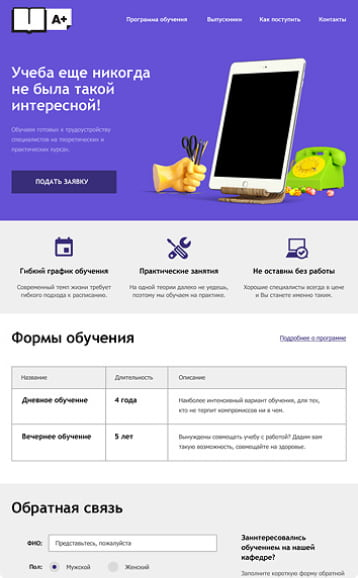
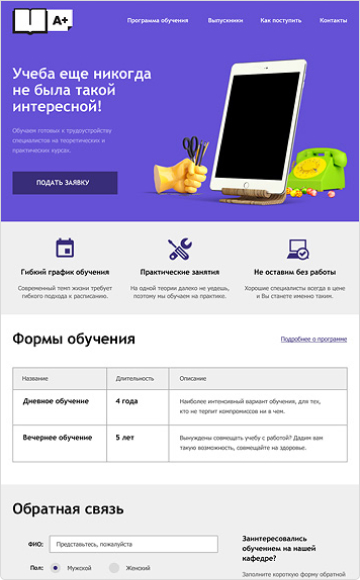
Fixed by remarks.

diff --git a/css/style.min.css b/css/style.min.css
@@ -1,1 +1,1 @@
-:root{--basic-white:white;--basic-black:black;--basic-red:#fb565a;--basic-green:#00ca74;--green-hover:#00bc6c;--green-active:#00aa62;--green-bar:#00ca74;--basic-yellow:#efc849;--yellow-hover:#eab534;--yellow-active:#e5a722;--red-hover:#e74246;--red-active:#d7373b;--white2:#e1e1e1;--basic-grey:#eee;--grey-hover:#dfdfdf;--grey-active:#d5d5d5;--grey-input-normal:#d7dcde;--grey-input-hover:#b4b9bb;--grey-slider-button_active:#c1c1c1;--grey-border:#dbdbdb;--grey-range:#f1f1f1;--grey-dark:#d7dcde;--toggle-color:#ababab;--shadow-color:#cfcfcf}body{margin:0;padding:0;min-width:1460px;font-family:Roboto,Arial,sans-serif;font-size:16px;line-height:24px;min-height:100%;display:grid;grid-template-rows:-webkit-min-content 1fr -webkit-min-content;grid-template-rows:min-content 1fr min-content;align-content:start}img{height:auto}a{text-decoration:none;color:var(--basic-black);text-transform:uppercase}.visually-hidden{position:absolute;width:1px;height:1px;margin:-1px;border:0;padding:0;clip:rect(0 0 0 0);overflow:hidden}.container{margin:0 auto;padding:0 10px;width:1179px}.page{height:100%}.container_big{width:1440px;padding:0}.main-header nav{font-size:16px;line-height:30px;font-weight:500;display:flex}.about-us-block ul,.form-filter ul,.lets-be-friends-block ul,.main-slider ul,.navigation-links,.our-clients-section ul,.product-options ul,.sort-section ul{list-style:none;padding:0;margin:0}.form-filter fieldset{border:none;margin:0;padding:0}.product-list li{position:relative;padding-left:35px;padding-bottom:24px}.product-list li::before{content:"";position:absolute;width:25px;height:2px;background-color:var(--basic-red);left:0;top:11px}.product-list li:last-child{padding-bottom:0}.navigation-links a{display:block;padding:9px 23px}.cart-link{padding:9px 0 9px 52px;position:relative;margin-top:17px;margin-left:193px;width:126px}.cart-link::before{position:absolute;content:"";background-image:url(../img/cart-icon.svg);width:15px;height:15px;top:17px;left:12px}.lets-be-friends-block ul{display:flex;align-self:flex-start;width:260px;justify-content:space-between;gap:9px;margin-right:140px}.navigation-links{display:flex;flex-wrap:wrap;align-items:center;padding-top:8px;width:500px;margin-left:180px}.main-slider .container{position:relative}.main-slider-buttons{display:flex;position:absolute;left:546px;bottom:10px}.slider-button{width:18px;height:18px;border-radius:50%;border:none;background-color:var(--basic-white);position:relative}.slider-button_active::after{position:absolute;content:"";width:10px;height:10px;border-radius:50%;border:3px solid var(--grey-slider-button_active);left:4px;top:4px}.main-slider-buttons li{margin-right:17px}.main-slider-buttons li:last-child{margin-right:0}.main-header a:hover{color:var(--basic-red)}.logo:active,.main-header a:active{opacity:.3}.navigation-links .active-link{border-bottom:2px solid var(--basic-red);padding:12px 0 13px;margin:0 23px}.main-header,.main-slider,.map-block{background-color:var(--basic-grey)}.map-block{position:relative;height:416px}.main-header{padding-top:49px}.main-slider{padding-top:67px;padding-bottom:80px}.for-h1-in-catalog{background-color:var(--basic-grey);padding:30px 0 71px;margin-bottom:55px}.h1{text-align:center;font-weight:500;font-size:55px;line-height:55px;margin-left:-19px}.catalog{display:grid;grid-template-columns:260px repeat(2,360px);grid-template-rows:repeat(2,auto);gap:48px 140px;margin-bottom:60px}.filter-section{grid-column:1/2;grid-row:1/-1}.sort-section{grid-column:2/-1;display:grid;grid-template-columns:repeat(2,360px);gap:40px}.sort-section__div-for-lists{display:flex;justify-content:space-between;align-items:center}.sort-section ul{display:flex;flex-wrap:wrap;justify-content:space-between}.sort-section ul:first-child{width:272px}.sort-section ul:last-child{width:41px}.catalog-items{grid-column:2/-1;display:grid;grid-template-columns:repeat(2,360px);gap:22px 40px;margin-bottom:-2px}.product-image{border:1px solid rgba(0,0,0,.1);border-top:none;box-sizing:border-box;border-radius:0 0 5px 5px;width:100%;height:580px}.product-item{position:relative}.product-hover-section{width:360px;position:absolute;bottom:6px;padding:26px 65px 45px;background-color:var(--basic-grey);text-align:center;border-radius:0 0 5px 5px;display:none}.product-hover-section a{width:200px}.product-item:focus .product-image,.product-item:focus-within .product-image,.product-item:hover .product-image,.product-item_active .product-image{box-shadow:0 20px 40px rgba(0,0,0,.4)}.product-item:focus-within .product-hover-section,.product-item:hover .product-hover-section{display:block}.upper-row{opacity:.12;margin-bottom:-6px}.product-item:hover .upper-row,.product-item_active .upper-row{opacity:1}.pages-section{grid-column:2/-1;display:flex;align-items:center}.main-slider h3{font-weight:500;font-size:55px;line-height:55px;margin:0 0 25px}.main-slider p{margin:0 0 40px}.main-header-slide-1,.main-header-slide-2,.main-header-slide-3{width:510px;display:none}.main-header-slide-1{display:block}.main-header-slide-2 h3,.main-header-slide-3 h3{margin-bottom:38px}.main-header-slide-2 p,.main-header-slide-3 p{margin-bottom:27px}.main-slider-list{position:relative}.main-slider-list a{width:240px}.main-header-slide-1::after,.main-header-slide-2::after,.main-header-slide-3::after{content:"";width:760px;height:431px;position:absolute;left:397px;top:-78px;background-image:url(../img/nerds-index-slide1.png);background-repeat:no-repeat}.main-header-slide-2::after{background-image:url(../img/nerds-index-slide2.png);top:-78px}.main-header-slide-3::after{background-image:url(../img/nerds-index-slide3.png)}.button{display:inline-block;text-align:center;vertical-align:center;font-weight:500;font-size:16px;line-height:18px;text-transform:uppercase;color:var(--basic-white);background-color:var(--basic-red);border:none;border-radius:3px;padding:16px 44px}.button:hover{background-color:var(--red-hover)}.button:active{background-color:var(--red-active);box-shadow:inset 0 3px 0 rgba(0,1,1,.1)}.button-submit{width:260px}.button-close{width:21px;height:21px;background-color:transparent;opacity:.4;padding:0;position:absolute;top:78px;right:90px;border:none;z-index:3}.map-popup .button-close{top:30px;right:20px}.button-close:hover{opacity:1;background-color:transparent}.button-close:active{opacity:.2;background-color:transparent}.button-write-to-us{padding:17px 44px 15px;width:220px}.button-app-order{background-color:var(--basic-green)}.button-app-order:hover{background-color:var(--green-hover)}.button-app-order:active{background-color:var(--green-active)}.button-presentation-order{background-color:var(--basic-yellow)}.button-presentation-order:hover{background-color:var(--yellow-hover)}.button-presentation-order:active{background-color:var(--yellow-active)}.social-button{background-color:var(--white2);width:78px;height:78px;display:flex;align-items:center;justify-content:center;border-radius:50%;padding:0}.social-button:active img{opacity:.3}.button-filter{width:100%;margin-top:50px}.button-filter,.page-button{background-color:var(--basic-grey);color:var(--basic-black)}.page-button{margin-right:12px;padding:16px 17px 12px;min-width:50px;min-height:50px}.page-button-next{width:260px;padding:17px 77px 15px 71px}.page-button:last-child{margin-right:0}.button-filter:hover,.page-button:hover{background-color:var(--grey-hover)}.button-filter:active,.page-button:active{background-color:var(--grey-active)}.page-button-active{background-color:var(--basic-white);border:3px solid var(--grey-border)}.about-us-block,.our-clients-section,.product-options{border-bottom:2px solid var(--basic-grey)}.product-options{padding:80px 0}.product-options img{margin-bottom:18px}.product-options h3{font-weight:700;font-size:24px;line-height:30px;margin:0 0 16px;text-transform:uppercase}.product-options p{margin:0 0 32px}.product-options ul{display:grid;grid-template-columns:repeat(3,300px);gap:100px}.product-options article{padding-right:40px}.product-options a{width:160px;padding:17px 40px 15px 39px}.about-us-block{display:flex;justify-content:space-between;padding-top:39px;padding-bottom:72px}.about-us-block div:first-child{width:660px}.about-us-block div:last-child{width:362px}.logo-big{margin-bottom:33px;margin-left:3px}.about-us-block h2{font-weight:500;font-size:45px;line-height:45px;margin:34px 0}.about-us-block p{margin:0 0 44px}.about-us-block h3,.write-to-us-popup label{font-weight:700}.about-us-block h3{text-transform:uppercase;font-size:16px;line-height:18px;margin:0 0 25px}.right-column caption{margin-left:5px}.about-us-block th,.product-hover-section p{font-weight:400;font-size:16px;line-height:18px}.about-us-block th{text-align:left;vertical-align:bottom;padding-top:8px}.about-us-block td{font-weight:700;font-size:45px;line-height:64px;position:relative;padding-right:38px}.about-us-block span{position:absolute;font-size:26px;line-height:40px;top:5px}.form-filter legend,.header-sort,.our-contacts-block h3,.product-hover-section h3{font-weight:700;font-size:18px;line-height:30px;text-transform:uppercase}.product-hover-section h3,.product-hover-section p{margin:0}.product-hover-section h3{margin-bottom:12px}.product-hover-section p{margin-bottom:32px}.header-sort{margin:0}.our-contacts-block h3{margin:0 0 23px}.right-column h3{margin-bottom:31px}.our-contacts-block p{font-size:16px;line-height:18px;margin:0 0 37px}.lets-be-friends-block{display:flex;align-items:center;padding:70px 0 68px}.lets-be-friends-block h3{font-weight:700;font-size:36px;line-height:36px;margin:0 0 10px}.lets-be-friends-block p{font-size:16px;line-height:22px;margin:0}.modal{box-shadow:0 20px 40px rgba(0,0,0,.4);background-color:var(--basic-white);transform:translate(-50%,-50%);display:none;position:fixed;left:50%;right:0;top:50%;width:960px;min-height:590px}@-webkit-keyframes bounce{0%{transform:translate(-50%,-250%)}70%{transform:translate(-50%,-40%)}90%{transform:translate(-50%,-52%)}100%{transform:translate(-50%,-50%)}}@keyframes bounce{0%{transform:translate(-50%,-250%)}70%{transform:translate(-50%,-40%)}90%{transform:translate(-50%,-52%)}100%{transform:translate(-50%,-50%)}}@-webkit-keyframes shake{10%,90%{transform:translate(-48%,-50%)}20%,80%{transform:translate(-52%,-50%)}30%,50%,70%{transform:translate(-49%,-50%)}40%,60%{transform:translate(-51%,-50%)}}@keyframes shake{10%,90%{transform:translate(-48%,-50%)}20%,80%{transform:translate(-52%,-50%)}30%,50%,70%{transform:translate(-49%,-50%)}40%,60%{transform:translate(-51%,-50%)}}.modal-show{display:block;-webkit-animation-name:bounce;animation-name:bounce;-webkit-animation-duration:.4s;animation-duration:.4s}.modal-error{-webkit-animation-name:shake;animation-name:shake;-webkit-animation-duration:.4s;animation-duration:.4s}.write-to-us-popup{padding:63px 100px 84px}.map-popup__iframe{position:absolute;z-index:2}.map-popup p{position:absolute;z-index:1;margin:0}.write-to-us-popup form{display:grid;grid-template-columns:repeat(2,360px);-moz-column-gap:40px;column-gap:40px}.write-to-us-popup h2{font-weight:700;font-size:45px;line-height:53px;margin:0 0 3px}.write-to-us-popup label{margin:34px 0 8px}.write-to-us-popup textarea{margin-bottom:49px;min-height:118px;resize:none}.label-for-text-area,.write-to-us-popup textarea{grid-column:-1/1}.write-to-us-popup input,.write-to-us-popup label,.write-to-us-popup textarea{font-size:16px;line-height:18px}.write-to-us-popup input,.write-to-us-popup textarea{border:2px solid var(--grey-input-normal);padding:14px}.write-to-us-popup input:hover,.write-to-us-popup textarea:hover{border:2px solid var(--grey-input-hover)}.link-sort,.link-sort-img img{font-size:14px;line-height:18px;opacity:.3}.link-sort-img:hover img,.link-sort:hover{opacity:.6}.link-sort-img:active img,.link-sort-img_active img,.link-sort:active,.link-sort_active{opacity:1}.fieldset-price{margin-bottom:54px}.form-filter .fieldset-grid{margin-top:51px;margin-bottom:45px}.fieldset-features{margin-bottom:50px}.fieldset-price legend{margin-bottom:48px}.fieldset-price label{font-size:16px;line-height:22px;text-transform:uppercase}.fieldset-price input{font-size:16px;line-height:22px;text-transform:uppercase}.fieldset-features label,.fieldset-grid label{font-size:16px;line-height:22px}.range-filter{width:260px}.range-controls{position:relative;height:41px;background-color:var(--grey-range);padding:39px 20px;border-radius:5px;margin-bottom:15px}.range-controls .scale{height:2px;background-color:var(--grey-dark)}.range-controls .bar{width:70%;height:2px;background:var(--green-bar)}.range-controls .toggle{position:absolute;top:31px;left:0;width:4px;height:4px;padding:0;border:8px solid var(--basic-white);background-color:var(--toggle-color);box-sizing:content-box;border-radius:50%;box-shadow:0 2px 1px 0 var(--shadow-color);cursor:pointer}.range-controls .toggle-min{left:18px}.range-controls .toggle-max{left:160px}.price-controls{display:flex;justify-content:space-between}.price-controls input{width:80px;padding:10px;margin-left:10px;text-align:center;border:none;border-radius:5px;background:var(--grey-range)}input::-webkit-inner-spin-button,input::-webkit-outer-spin-button{-webkit-appearance:none;margin:0}.fieldset-features li,.fieldset-grid li{margin-top:15px}.check{padding-left:36px;margin-top:0}.check__input{-webkit-appearance:none;-moz-appearance:none;appearance:none;position:absolute}.check__box,.check__radio{margin-left:-36px;position:absolute;width:25px;height:25px;background-image:url(../img/custom-radio-off.svg);background-repeat:no-repeat;opacity:.4}.check__box{background-image:url(../img/custom-checkbox-off.svg);width:23px;height:23px}.check__input:checked+.check__radio{background-image:url(../img/custom-radio-on.svg)}.check__input:checked+.check__box{background-image:url(../img/custom-checkbox-on.svg)}.check__input:focus+.check__box,.check__input:focus+.check__radio,.check__input:hover+.check__box,.check__input:hover+.check__radio{opacity:1}.check__input:disabled+.check__box,.check__input:disabled+.check__radio{opacity:.1}.our-clients-section{margin-bottom:80px}.our-clients-section ul{display:grid;grid-template-columns:280px 300px 280px 300px;margin:48px 0 35px 0;gap:17px}.our-clients-section li{position:relative;display:flex;align-items:center}.our-clients-section li::after{content:"";position:absolute;width:2px;height:52px;background-color:var(--basic-grey);right:0}.our-clients-section li:last-child:after{display:none}.our-contacts-block{width:320px;background-color:var(--basic-white);position:absolute;left:140px;top:54px;padding:49px 50px 47px}F .discount-div{width:575px}.map-marker{position:absolute;right:387px;top:86px}.our-clients-section a{opacity:.2;width:247px;display:block;padding:0 33px}.our-clients-section a:hover{opacity:1}.our-clients-section a:active{opacity:.1}.product-item__link:hover{color:var(--basic-red)}.product-item__link:active{color:var(--basic-black);opacity:.3}*,::after,::before{box-sizing:border-box}
+:root{--basic-white:white;--basic-black:black;--basic-red:#fb565a;--basic-green:#00ca74;--green-hover:#00bc6c;--green-active:#00aa62;--green-bar:#00ca74;--basic-yellow:#efc849;--yellow-hover:#eab534;--yellow-active:#e5a722;--red-hover:#e74246;--red-active:#d7373b;--white2:#e1e1e1;--basic-grey:#eee;--grey-hover:#dfdfdf;--grey-active:#d5d5d5;--grey-input-normal:#d7dcde;--grey-input-hover:#b4b9bb;--grey-slider-button_active:#c1c1c1;--grey-border:#dbdbdb;--grey-range:#f1f1f1;--grey-dark:#d7dcde;--toggle-color:#ababab;--shadow-color:#cfcfcf}body{margin:0;padding:0;min-width:1460px;font-family:Roboto,Arial,sans-serif;font-size:16px;line-height:24px;min-height:100%;display:grid;grid-template-rows:-webkit-min-content 1fr -webkit-min-content;grid-template-rows:min-content 1fr min-content;align-content:start}img{height:auto}a{text-decoration:none;color:var(--basic-black);text-transform:uppercase}.visually-hidden{position:absolute;width:1px;height:1px;margin:-1px;border:0;padding:0;clip:rect(0 0 0 0);overflow:hidden}.container{margin:0 auto;padding:0 10px;width:1179px}.page{height:100%}.container_big{width:1440px;padding:0}.main-header nav{font-size:16px;line-height:30px;font-weight:500;display:flex}.about-us-block ul,.form-filter ul,.lets-be-friends-block ul,.main-slider ul,.navigation-links,.our-clients-section ul,.product-options ul,.sort-section ul{list-style:none;padding:0;margin:0}.form-filter fieldset{border:none;margin:0;padding:0}.product-list li{position:relative;padding-left:35px;padding-bottom:24px}.product-list li::before{content:"";position:absolute;width:25px;height:2px;background-color:var(--basic-red);left:0;top:11px}.product-list li:last-child{padding-bottom:0}.navigation-links a{display:block;padding:9px 23px}.cart-link{padding:9px 0 9px 52px;position:relative;margin-top:17px;margin-left:193px;width:126px}.cart-link::before{position:absolute;content:"";background-image:url(../img/cart-icon.svg);width:15px;height:15px;top:17px;left:12px}.lets-be-friends-block ul{display:flex;align-self:flex-start;width:260px;justify-content:space-between;gap:9px;margin-right:140px}.navigation-links{display:flex;flex-wrap:wrap;align-items:center;padding-top:8px;width:500px;margin-left:180px}.main-slider .container{position:relative}.main-slider-buttons{display:flex;position:absolute;left:546px;bottom:10px}.slider-button{width:18px;height:18px;border-radius:50%;border:none;background-color:var(--basic-white);position:relative}.slider-button_active::after{position:absolute;content:"";width:10px;height:10px;border-radius:50%;border:3px solid var(--grey-slider-button_active);left:4px;top:4px}.main-slider-buttons li{margin-right:17px}.main-slider-buttons li:last-child{margin-right:0}.main-header a:hover{color:var(--basic-red)}.logo:active,.main-header a:active{opacity:.3}.navigation-links .active-link{border-bottom:2px solid var(--basic-red);padding:12px 0 13px;margin:0 23px}.main-header,.main-slider,.map-block{background-color:var(--basic-grey)}.map-block{position:relative;height:416px}.main-header{padding-top:49px}.main-slider{padding-top:67px;padding-bottom:80px}.for-h1-in-catalog{background-color:var(--basic-grey);padding:30px 0 71px;margin-bottom:55px}.h1{text-align:center;font-weight:500;font-size:55px;line-height:55px;margin-left:-19px}.catalog{display:grid;grid-template-columns:260px repeat(2,360px);grid-template-rows:repeat(2,auto);gap:48px 140px;margin-bottom:60px}.filter-section{grid-column:1/2;grid-row:1/-1}.sort-section{grid-column:2/-1;display:grid;grid-template-columns:repeat(2,360px);gap:40px}.sort-section__div-for-lists{display:flex;justify-content:space-between;align-items:center}.sort-section ul{display:flex;flex-wrap:wrap;justify-content:space-between}.sort-section ul:first-child{width:272px}.sort-section ul:last-child{width:41px}.catalog-items{grid-column:2/-1;display:grid;grid-template-columns:repeat(2,360px);gap:23px 40px;margin-bottom:-2px}.product-image{border-radius:0 0 5px 5px}.product-item{position:relative;padding-top:40px}.product-item::before{content:"";position:absolute;background-image:url(../img/product-hover.svg);width:360px;height:40px;top:0;opacity:.12}.product-hover-section{width:360px;position:absolute;bottom:6px;padding:26px 65px 45px;background-color:var(--basic-grey);text-align:center;border-radius:0 0 5px 5px;display:none}.product-hover-section a{width:200px}.product-item:focus .product-image,.product-item:focus-within .product-image,.product-item:hover .product-image,.product-item_active .product-image{box-shadow:0 20px 40px rgba(0,0,0,.4)}.product-item:focus-within .product-hover-section,.product-item:hover .product-hover-section{display:block}.product-item:hover::before{opacity:1}.pages-section{grid-column:2/-1;display:flex;align-items:center}.main-slider h3{font-weight:500;font-size:55px;line-height:55px;margin:0 0 25px}.main-slider p{margin:0 0 40px}.main-header-slide-1,.main-header-slide-2,.main-header-slide-3{width:510px;display:none}.main-header-slide-1{display:block}.main-header-slide-2 h3,.main-header-slide-3 h3{margin-bottom:38px}.main-header-slide-2 p,.main-header-slide-3 p{margin-bottom:27px}.main-slider-list{position:relative}.main-slider-list a{width:240px}.main-header-slide-1::after,.main-header-slide-2::after,.main-header-slide-3::after{content:"";width:760px;height:431px;position:absolute;left:397px;top:-78px;background-image:url(../img/nerds-index-slide1.png);background-repeat:no-repeat}.main-header-slide-2::after{background-image:url(../img/nerds-index-slide2.png);top:-78px}.main-header-slide-3::after{background-image:url(../img/nerds-index-slide3.png)}.button{display:inline-block;text-align:center;vertical-align:center;font-weight:500;font-size:16px;line-height:18px;text-transform:uppercase;color:var(--basic-white);background-color:var(--basic-red);border:none;border-radius:3px;padding:16px 44px}.button:hover{background-color:var(--red-hover)}.button:active{background-color:var(--red-active);box-shadow:inset 0 3px 0 rgba(0,1,1,.1)}.button-submit{width:260px}.button-close{width:21px;height:21px;background-color:transparent;opacity:.4;padding:0;position:absolute;top:78px;right:90px;border:none;z-index:3}.button-close:hover{opacity:1;background-color:transparent}.button-close:active{opacity:.2;background-color:transparent}.button-write-to-us{padding:17px 44px 15px;width:220px;margin-top:19px}.button-app-order{background-color:var(--basic-green)}.button-app-order:hover{background-color:var(--green-hover)}.button-app-order:active{background-color:var(--green-active)}.button-presentation-order{background-color:var(--basic-yellow)}.button-presentation-order:hover{background-color:var(--yellow-hover)}.button-presentation-order:active{background-color:var(--yellow-active)}.social-button{background-color:var(--white2);width:78px;height:78px;display:flex;align-items:center;justify-content:center;border-radius:50%;padding:0}.social-button:active img{opacity:.3}.button-filter{width:100%;margin-top:50px}.button-filter,.page-button{background-color:var(--basic-grey);color:var(--basic-black)}.page-button{margin-right:12px;padding:16px 17px 12px;min-width:50px;min-height:50px}.page-button-next{width:260px;padding:17px 77px 15px 71px}.page-button:last-child{margin-right:0}.button-filter:hover,.page-button:hover{background-color:var(--grey-hover)}.button-filter:active,.page-button:active{background-color:var(--grey-active)}.page-button-active{background-color:var(--basic-white);border:3px solid var(--grey-border)}.about-us-block,.our-clients-section,.product-options{border-bottom:2px solid var(--basic-grey)}.product-options{padding:80px 0}.product-options img{margin-bottom:18px}.product-options h3{font-weight:700;font-size:24px;line-height:30px;margin:0 0 16px;text-transform:uppercase}.product-options p{margin:0 0 32px}.product-options ul{display:grid;grid-template-columns:repeat(3,300px);gap:100px}.context-block{padding-right:40px}.product-options a{width:160px;padding:17px 40px 15px 39px}.about-us-block{display:flex;justify-content:space-between;padding-top:39px;padding-bottom:72px}.about-us-block div:first-child{width:660px}.about-us-block div:last-child{width:362px}.logo-big{margin-bottom:33px;margin-left:3px}.about-us-block h2{font-weight:500;font-size:45px;line-height:45px;margin:34px 0}.about-us-block p{margin:0 0 44px}.about-us-block h3,.write-to-us-popup label{font-weight:700}.about-us-block h3{text-transform:uppercase;font-size:16px;line-height:18px;margin:0 0 25px}.right-column caption{margin-left:5px}.about-us-block th,.product-hover-section p{font-weight:400;font-size:16px;line-height:18px}.about-us-block th{text-align:left;vertical-align:bottom;padding-top:8px}.about-us-block td{font-weight:700;font-size:45px;line-height:64px;position:relative;padding-right:38px}.about-us-block span{position:absolute;font-size:26px;line-height:40px;top:5px}.form-filter legend,.header-sort,.our-contacts-block h3,.product-hover-section h3{font-weight:700;font-size:18px;line-height:30px;text-transform:uppercase}.product-hover-section h3,.product-hover-section p{margin:0}.product-hover-section h3{margin-bottom:12px}.product-hover-section p{margin-bottom:32px}.header-sort{margin:0}.our-contacts-block h3{margin:0 0 23px}.right-column h3{margin-bottom:31px}.our-contacts-block p{font-size:16px;line-height:18px;margin:0 0 18px}.lets-be-friends-block{display:flex;align-items:center;padding:70px 0 68px}.lets-be-friends-block h3{font-weight:700;font-size:36px;line-height:36px;margin:0 0 10px}.lets-be-friends-block p{font-size:16px;line-height:22px;margin:0}.modal{box-shadow:0 20px 40px rgba(0,0,0,.4);background-color:var(--basic-white);transform:translate(-50%,-50%);display:none;position:fixed;left:50%;right:0;top:50%;width:960px;min-height:590px}@-webkit-keyframes bounce{0%{transform:translate(-50%,-250%)}70%{transform:translate(-50%,-40%)}90%{transform:translate(-50%,-52%)}100%{transform:translate(-50%,-50%)}}@keyframes bounce{0%{transform:translate(-50%,-250%)}70%{transform:translate(-50%,-40%)}90%{transform:translate(-50%,-52%)}100%{transform:translate(-50%,-50%)}}@-webkit-keyframes shake{10%,90%{transform:translate(-48%,-50%)}20%,80%{transform:translate(-52%,-50%)}30%,50%,70%{transform:translate(-49%,-50%)}40%,60%{transform:translate(-51%,-50%)}}@keyframes shake{10%,90%{transform:translate(-48%,-50%)}20%,80%{transform:translate(-52%,-50%)}30%,50%,70%{transform:translate(-49%,-50%)}40%,60%{transform:translate(-51%,-50%)}}.modal-show{display:block;-webkit-animation-name:bounce;animation-name:bounce;-webkit-animation-duration:.4s;animation-duration:.4s}.modal-error{-webkit-animation-name:shake;animation-name:shake;-webkit-animation-duration:.4s;animation-duration:.4s}.write-to-us-popup{padding:63px 100px 84px}.write-to-us-popup form{display:grid;grid-template-columns:repeat(2,360px);-moz-column-gap:40px;column-gap:40px}.write-to-us-popup h2{font-weight:700;font-size:45px;line-height:53px;margin:0 0 3px}.write-to-us-popup label{margin:34px 0 8px}.write-to-us-popup textarea{margin-bottom:49px;min-height:118px;resize:none}.label-for-text-area,.write-to-us-popup textarea{grid-column:-1/1}.write-to-us-popup input,.write-to-us-popup label,.write-to-us-popup textarea{font-size:16px;line-height:18px}.write-to-us-popup input,.write-to-us-popup textarea{border:2px solid var(--grey-input-normal);padding:14px}.write-to-us-popup input:hover,.write-to-us-popup textarea:hover{border:2px solid var(--grey-input-hover)}.link-sort,.link-sort-img img{font-size:14px;line-height:18px;opacity:.3}.link-sort-img:hover img,.link-sort:hover{opacity:.6}.link-sort-img:active img,.link-sort-img_active img,.link-sort:active,.link-sort_active{opacity:1}.fieldset-price{margin-bottom:54px}.form-filter .fieldset-grid{margin-top:51px;margin-bottom:45px}.fieldset-features{margin-bottom:50px}.fieldset-price legend{margin-bottom:48px}.fieldset-price label{font-size:16px;line-height:22px;text-transform:uppercase}.fieldset-price input{font-size:16px;line-height:22px;text-transform:uppercase}.fieldset-features label,.fieldset-grid label{font-size:16px;line-height:22px}.range-filter{width:260px}.range-controls{position:relative;height:41px;background-color:var(--grey-range);padding:39px 20px;border-radius:5px;margin-bottom:15px}.range-controls .scale{height:2px;background-color:var(--grey-dark)}.range-controls .bar{width:70%;height:2px;background:var(--green-bar)}.range-controls .toggle{position:absolute;top:31px;left:0;width:4px;height:4px;padding:0;border:8px solid var(--basic-white);background-color:var(--toggle-color);box-sizing:content-box;border-radius:50%;box-shadow:0 2px 1px 0 var(--shadow-color);cursor:pointer}.range-controls .toggle-min{left:18px}.range-controls .toggle-max{left:160px}.price-controls{display:flex;justify-content:space-between}.price-controls input{width:80px;padding:10px;margin-left:10px;text-align:center;border:none;border-radius:5px;background:var(--grey-range)}input::-webkit-inner-spin-button,input::-webkit-outer-spin-button{-webkit-appearance:none;margin:0}.fieldset-features li,.fieldset-grid li{margin-top:15px}.check{padding-left:36px;margin-top:0}.check__input{-webkit-appearance:none;-moz-appearance:none;appearance:none;position:absolute}.check__box,.check__radio{margin-left:-36px;position:absolute;width:25px;height:25px;background-image:url(../img/custom-radio-off.svg);background-repeat:no-repeat;opacity:.4}.check__box{background-image:url(../img/custom-checkbox-off.svg);width:23px;height:23px}.check__input:checked+.check__radio{background-image:url(../img/custom-radio-on.svg)}.check__input:checked+.check__box{background-image:url(../img/custom-checkbox-on.svg)}.check__input:focus+.check__box,.check__input:focus+.check__radio,.check__input:hover+.check__box,.check__input:hover+.check__radio{opacity:1}.check__input:disabled+.check__box,.check__input:disabled+.check__radio{opacity:.1}.our-clients-section{margin-bottom:80px}.our-clients-section ul{display:grid;grid-template-columns:280px 300px 280px 300px;margin:48px 0 35px 0;gap:17px}.our-clients-section li{position:relative;display:flex;align-items:center}.our-clients-section li::after{content:"";position:absolute;width:2px;height:52px;background-color:var(--basic-grey);right:0}.our-clients-section li:last-child:after{display:none}.our-contacts-block{width:320px;background-color:var(--basic-white);position:absolute;left:140px;top:54px;padding:49px 50px 47px}F .discount-div{width:575px}.map-marker{position:absolute;right:387px;top:86px}.our-clients-section a{opacity:.2;width:247px;display:block;padding:0 33px}.our-clients-section a:hover{opacity:1}.our-clients-section a:active{opacity:.1}.product-item__link:hover{color:var(--basic-red)}.product-item__link:active{color:var(--basic-black);opacity:.3}*,::after,::before{box-sizing:border-box}

diff --git a/catalog.html b/catalog.html
@@ -172,7 +172,6 @@
       <section class="catalog-items">
         <h2 class="visually-hidden">Каталог</h2>
         <article class="product-item" tabindex="0">
-          <img src="img/product-hover.svg" width="360" height="40" alt="Вверхняя полоса" class="upper-row">
           <img src="img/product-sedona.jpg" alt="Седона" width="360" height="580" class="product-image">
           <section class="product-hover-section">
             <h3>
@@ -188,8 +187,7 @@
           </section>
         </article>
         <article class="product-item" tabindex="0">
-          <img src="img/product-hover.svg" width="360" height="40" alt="Вверхняя полоса" class="upper-row">
-          <img src="img/product-pink.jpg" alt="Pink" width="358" height="578" class="product-image">
+          <img src="img/product-pink.jpg" alt="Pink" width="360" height="580" class="product-image">
           <section class="product-hover-section">
             <h3>
               <a href="#" aria-label="Ссылка на карточку товара" class="product-item__link">
@@ -204,8 +202,7 @@
           </section>
         </article>
         <article class="product-item" tabindex="0">
-          <img src="img/product-hover.svg" width="360" height="40" alt="Вверхняя полоса" class="upper-row">
-          <img src="img/product-borodinskii.jpg" alt="Borodinski" width="358" height="578" class="product-image">
+          <img src="img/product-borodinskii.jpg" alt="Borodinski" width="360" height="580" class="product-image">
           <section class="product-hover-section">
             <h3>
               <a href="#" aria-label="Ссылка на карточку товара" class="product-item__link">
@@ -222,8 +219,7 @@
           </section>
         </article>
         <article class="product-item" tabindex="0">
-          <img src="img/product-hover.svg" width="360" height="40" alt="Вверхняя полоса" class="upper-row">
-          <img src="img/product-mishka.jpg" alt="Mishka" width="358" height="578" class="product-image">
+          <img src="img/product-mishka.jpg" alt="Mishka" width="360" height="580" class="product-image">
           <section class="product-hover-section">
             <h3>
               <a href="#" aria-label="Ссылка на карточку товара" class="product-item__link">
@@ -238,8 +234,7 @@
           </section>
         </article>
         <article class="product-item" tabindex="0">
-          <img src="img/product-hover.svg" width="360" height="40" alt="Вверхняя полоса" class="upper-row">
-          <img src="img/product-education.jpg" alt="A plus" width="358" height="578" class="product-image">
+          <img src="img/product-education.jpg" alt="A plus" width="360" height="580" class="product-image">
           <section class="product-hover-section">
             <h3>
               <a href="#" aria-label="Ссылка на карточку товара" class="product-item__link">
@@ -254,8 +249,7 @@
           </section>
         </article>
         <article class="product-item" tabindex="0">
-          <img src="img/product-hover.svg" width="360" height="40" alt="Вверхняя полоса" class="upper-row">
-          <img src="img/product-beer.jpg" alt="Кваст" width="358" height="578" class="product-image">
+          <img src="img/product-beer.jpg" alt="Кваст" width="360" height="580" class="product-image">
           <section class="product-hover-section">
             <h3>
               <a href="#" aria-label="Ссылка на карточку товара" class="product-item__link">
@@ -283,14 +277,18 @@
   <div class="container container_big">
     <section class="map-block">
       <h2 class="visually-hidden">Карта</h2>
-      <a href="#" class="map-popup-link">
-        <img src="img/map.png" alt="Карта с адресом" width="1440" height="416">
-      </a>
+      <iframe class="map-popup__iframe" aria-label="Интерактивная карта"
+              src="https://www.google.com/maps/embed?pb=!1m18!1m12!1m3!1d1998.5944077412285!2d30.320765870178526!3d59.93887210972331!2m3!1f0!2f0!3f0!3m2!1i1024!2i768!4f13.1!3m3!1m2!1s0x4696310fca5ba729%3A0xea9c53d4493c879f!2sBolshaya%20Konyushennaya%20St%2C%2019%2C%20Sankt-Peterburg%2C%20Russia%2C%20191186!5e0!3m2!1sen!2sby!4v1594029918026!5m2!1sen!2sby"
+              width="1440" height="416" style="border:0;" allowfullscreen="" aria-hidden="false"
+              tabindex="0">
+      </iframe>
       <article class="our-contacts-block">
-        <h3>NЁRDS DESIGN STUDIO</h3>
+        <h3>Nёrds design studio</h3>
         <p>
           191186, Санкт-Петербург,<br>
-          ул. Б. Конюшенная, д. 19/8<br><br>
+          ул. Б. Конюшенная, д. 19/8<br>
+        </p>
+        <p>
           тел. <a href="tel:+78122757575" aria-label="Телефонный контакт">+7 (812) 275-75-75</a>
         </p>
         <a href="#" class="button button-write-to-us">Напишите нам</a>
@@ -336,20 +334,6 @@
     <textarea id="message-text-area" name="message" placeholder="В свободной форме"></textarea>
     <button type="submit" class="button button-submit">Отправить</button>
   </form>
-  <button type="button" class="button button-close" aria-label="Кнопка закрыть">
-    <img src="img/button-close.svg" width="21" height="21" alt="Картинка закрыть">
-  </button>
-</section>
-<section class="modal map-popup">
-  <h2 class="visually-hidden">Здесь будет карта</h2>
-  <iframe class="map-popup__iframe"
-          src="https://www.google.com/maps/embed?pb=!1m18!1m12!1m3!1d1998.5944077412285!2d30.320765870178526!3d59.93887210972331!2m3!1f0!2f0!3f0!3m2!1i1024!2i768!4f13.1!3m3!1m2!1s0x4696310fca5ba729%3A0xea9c53d4493c879f!2sBolshaya%20Konyushennaya%20St%2C%2019%2C%20Sankt-Peterburg%2C%20Russia%2C%20191186!5e0!3m2!1sen!2sby!4v1594029918026!5m2!1sen!2sby"
-          width="960" height="590" style="border:0;" allowfullscreen="" aria-hidden="false"
-          tabindex="0">
-  </iframe>
-  <p>
-    <img src="img/map.png" alt="Карта с адресом" height="590" width="960">
-  </p>
   <button type="button" class="button button-close" aria-label="Кнопка закрыть">
     <img src="img/button-close.svg" width="21" height="21" alt="Картинка закрыть">
   </button>

diff --git a/index.html b/index.html
@@ -99,25 +99,31 @@
         <li>
           <article>
             <img src="img/illustration-1.png" alt="Сайты" width="300" height="146">
-            <h3>Веб-сайты</h3>
-            <p>Мир никогда не будет прежним после того как увидит ваш сайт!</p>
-            <a href="#" class="button">Заказать</a>
+            <div class="context-block">
+              <h3>Веб-сайты</h3>
+              <p>Мир никогда не будет прежним после того как увидит ваш сайт!</p>
+              <a href="#" class="button">Заказать</a>
+            </div>
           </article>
         </li>
         <li>
           <article>
             <img src="img/illustration-2.png" alt="Приложения" width="300" height="146">
-            <h3>Приложения</h3>
-            <p>Покорите топ-10 приложений в AppStore и Google Play</p>
-            <a href="#" class="button button-app-order">Заказать</a>
+            <div class="context-block">
+              <h3>Приложения</h3>
+              <p>Покорите топ-10 приложений в AppStore и Google Play</p>
+              <a href="#" class="button button-app-order">Заказать</a>
+            </div>
           </article>
         </li>
         <li>
           <article>
             <img src="img/illustration-3.png" alt="Презентации" width="300" height="146">
-            <h3>Презентации</h3>
-            <p>Вы даже не подозреваете, насколько вы изумительны!</p>
-            <a href="#" class="button button-presentation-order">Заказать</a>
+            <div class="context-block">
+              <h3>Презентации</h3>
+              <p>Вы даже не подозреваете, насколько вы изумительны!</p>
+              <a href="#" class="button button-presentation-order">Заказать</a>
+            </div>
           </article>
         </li>
       </ul>
@@ -186,14 +192,18 @@
   <div class="container container_big map-block">
     <section class="map-block">
       <h2 class="visually-hidden">Карта</h2>
-      <a href="#" class="map-popup-link">
-        <img src="img/map.png" alt="Карта с адресом" width="1440" height="416">
-      </a>
+      <iframe class="map-popup__iframe" aria-label="Интерактивная карта"
+              src="https://www.google.com/maps/embed?pb=!1m18!1m12!1m3!1d1998.5944077412285!2d30.320765870178526!3d59.93887210972331!2m3!1f0!2f0!3f0!3m2!1i1024!2i768!4f13.1!3m3!1m2!1s0x4696310fca5ba729%3A0xea9c53d4493c879f!2sBolshaya%20Konyushennaya%20St%2C%2019%2C%20Sankt-Peterburg%2C%20Russia%2C%20191186!5e0!3m2!1sen!2sby!4v1594029918026!5m2!1sen!2sby"
+              width="1440" height="416" style="border:0;" allowfullscreen="" aria-hidden="false"
+              tabindex="0">
+      </iframe>
       <article class="our-contacts-block">
-        <h3>NЁRDS DESIGN STUDIO</h3>
+        <h3>Nёrds design studio</h3>
         <p>
           191186, Санкт-Петербург,<br>
-          ул. Б. Конюшенная, д. 19/8<br><br>
+          ул. Б. Конюшенная, д. 19/8
+        </p>
+        <p>
           тел. <a href="tel:+78122757575" aria-label="Телефонный контакт">+7 (812) 275-75-75</a>
         </p>
         <a href="#" class="button button-write-to-us">Напишите нам</a>
@@ -239,20 +249,6 @@
     <textarea id="message-text-area" name="message" placeholder="В свободной форме"></textarea>
     <button type="submit" class="button button-submit">Отправить</button>
   </form>
-  <button type="button" class="button button-close" aria-label="Кнопка закрыть">
-    <img src="img/button-close.svg" width="21" height="21" alt="Картинка закрыть">
-  </button>
-</section>
-<section class="modal map-popup">
-  <h2 class="visually-hidden">Здесь будет карта</h2>
-  <iframe class="map-popup__iframe"
-          src="https://www.google.com/maps/embed?pb=!1m18!1m12!1m3!1d1998.5944077412285!2d30.320765870178526!3d59.93887210972331!2m3!1f0!2f0!3f0!3m2!1i1024!2i768!4f13.1!3m3!1m2!1s0x4696310fca5ba729%3A0xea9c53d4493c879f!2sBolshaya%20Konyushennaya%20St%2C%2019%2C%20Sankt-Peterburg%2C%20Russia%2C%20191186!5e0!3m2!1sen!2sby!4v1594029918026!5m2!1sen!2sby"
-          width="960" height="590" style="border:0;" allowfullscreen="" aria-hidden="false"
-          tabindex="0">
-  </iframe>
-  <p>
-    <img src="img/map.png" alt="Карта с адресом" height="590" width="960">
-  </p>
   <button type="button" class="button button-close" aria-label="Кнопка закрыть">
     <img src="img/button-close.svg" width="21" height="21" alt="Картинка закрыть">
   </button>

diff --git a/js/script.min.js b/js/script.min.js
@@ -1,1 +1,1 @@
-let buttonWriteToUs=document.querySelector(".button-write-to-us"),writToUsPopupWindow=document.querySelector(".write-to-us-popup"),writeToUsCloseButton=writToUsPopupWindow.querySelector(".button-close");buttonWriteToUs.addEventListener("click",function(o){o.preventDefault(),writToUsPopupWindow.classList.toggle("modal-show")}),writeToUsCloseButton.addEventListener("click",function(){writToUsPopupWindow.classList.toggle("modal-show")}),writToUsPopupWindow.addEventListener("submit",function(o){o.preventDefault();let t=document.querySelector("#name-input"),e=document.querySelector("#email-input"),u=document.querySelector("#message-text-area");t.value&&e.value&&u.value||(writToUsPopupWindow.classList.remove("modal-error"),writToUsPopupWindow.offsetWidth=writToUsPopupWindow.offsetWidth,writToUsPopupWindow.classList.add("modal-error"))});let buttonMap=document.querySelector(".map-popup-link"),mapPopupWindow=document.querySelector(".map-popup"),mapCloseButton=mapPopupWindow.querySelector(".button-close");buttonMap.addEventListener("click",function(o){o.preventDefault(),mapPopupWindow.classList.toggle("modal-show")}),mapCloseButton.addEventListener("click",function(){mapPopupWindow.classList.toggle("modal-show")});
+let buttonWriteToUs=document.querySelector(".button-write-to-us"),writToUsPopupWindow=document.querySelector(".write-to-us-popup"),writeToUsCloseButton=writToUsPopupWindow.querySelector(".button-close");buttonWriteToUs.addEventListener("click",function(o){o.preventDefault(),writToUsPopupWindow.classList.toggle("modal-show")}),writeToUsCloseButton.addEventListener("click",function(){writToUsPopupWindow.classList.toggle("modal-show")}),writToUsPopupWindow.addEventListener("submit",function(o){o.preventDefault();let t=document.querySelector("#name-input"),e=document.querySelector("#email-input"),i=document.querySelector("#message-text-area");t.value&&e.value&&i.value||(writToUsPopupWindow.classList.remove("modal-error"),writToUsPopupWindow.offsetWidth=writToUsPopupWindow.offsetWidth,writToUsPopupWindow.classList.add("modal-error"))});

diff --git a/css/style.css b/css/style.css
@@ -301,21 +301,27 @@ a {
   grid-column: 2/-1;
   display: grid;
   grid-template-columns: repeat(2, 360px);
-  gap: 22px 40px;
+  gap: 23px 40px;
   margin-bottom: -2px;
 }
 
 .product-image {
-  border: 1px solid rgba(0, 0, 0, 0.1);
-  border-top: none;
-  box-sizing: border-box;
   border-radius: 0 0 5px 5px;
-  width: 100%;
-  height: 580px;
 }
 
 .product-item {
   position: relative;
+  padding-top: 40px;
+}
+
+.product-item::before {
+  content: "";
+  position: absolute;
+  background-image: url("../img/product-hover.svg");
+  width: 360px;
+  height: 40px;
+  top: 0;
+  opacity: 0.12;
 }
 
 .product-hover-section {
@@ -345,13 +351,7 @@ a {
   display: block;
 }
 
-.upper-row {
-  opacity: 0.12;
-  margin-bottom: -6px;
-}
-
-.product-item_active .upper-row,
-.product-item:hover .upper-row {
+.product-item:hover::before {
   opacity: 1;
 }
 
@@ -464,11 +464,6 @@ a {
   z-index: 3;
 }
 
-.map-popup .button-close {
-  top: 30px;
-  right: 20px;
-}
-
 .button-close:hover {
   opacity: 1;
   background-color: transparent;
@@ -482,6 +477,7 @@ a {
 .button-write-to-us {
   padding: 17px 44px 15px;
   width: 220px;
+  margin-top: 19px;
 }
 
 .button-app-order {
@@ -597,7 +593,7 @@ a {
   gap: 100px;
 }
 
-.product-options article {
+.context-block {
   padding-right: 40px;
 }
 
@@ -719,7 +715,7 @@ a {
 .our-contacts-block p {
   font-size: 16px;
   line-height: 18px;
-  margin: 0 0 37px;
+  margin: 0 0 18px;
 }
 
 .lets-be-friends-block {
@@ -837,17 +833,6 @@ a {
 
 .write-to-us-popup {
   padding: 63px 100px 84px;
-}
-
-.map-popup__iframe {
-  position: absolute;
-  z-index: 2;
-}
-
-.map-popup p {
-  position: absolute;
-  z-index: 1;
-  margin: 0;
 }
 
 .write-to-us-popup form {

diff --git a/js/script.js b/js/script.js
@@ -21,15 +21,3 @@ writToUsPopupWindow.addEventListener("submit", function (evt) {
     writToUsPopupWindow.classList.add("modal-error");
   }
 })
-
-let buttonMap = document.querySelector(".map-popup-link");
-let mapPopupWindow = document.querySelector(".map-popup");
-let mapCloseButton = mapPopupWindow.querySelector(".button-close");
-
-buttonMap.addEventListener("click", function (evt) {
-  evt.preventDefault();
-  mapPopupWindow.classList.toggle("modal-show");
-});
-mapCloseButton.addEventListener("click", function () {
-  mapPopupWindow.classList.toggle("modal-show");
-});
